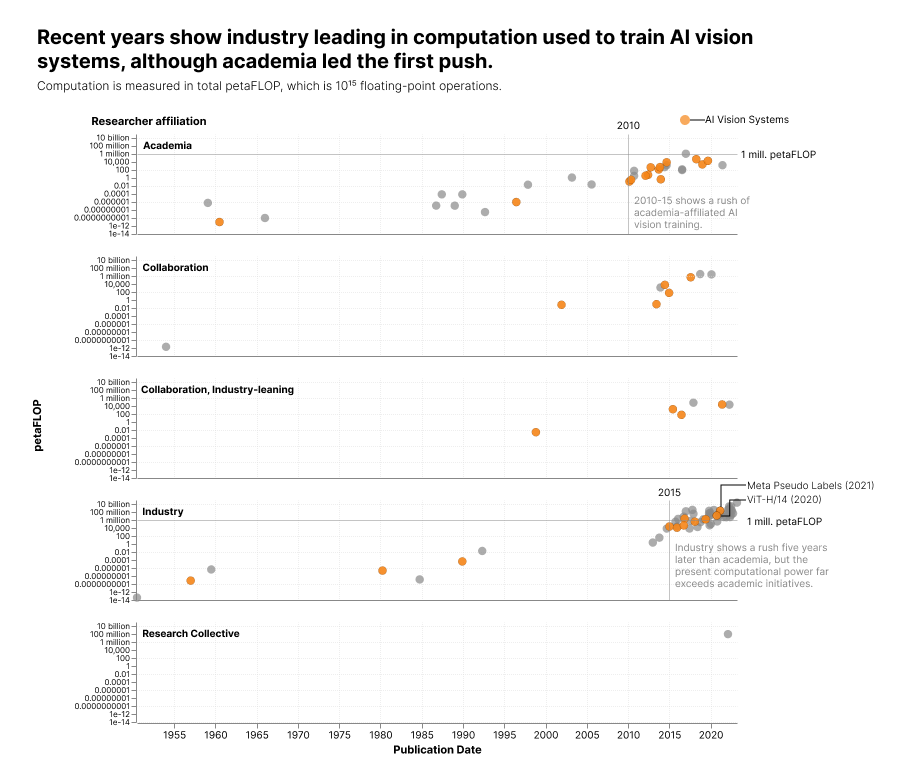
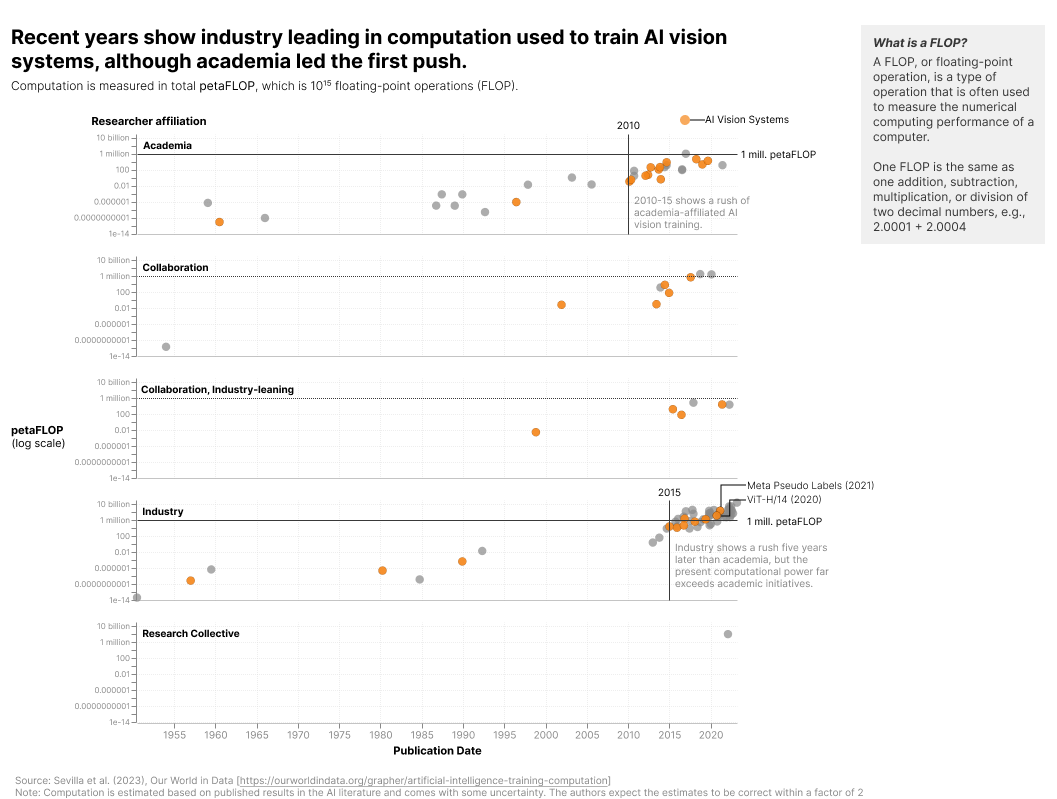
update chart outputs and write up rest of readme file

diff --git a/readme.md b/readme.md
@@ -1,7 +1,35 @@
 # Visualization Redesign 
 
-1. Create your base plot in your tool of choice (I like to use vega-altair)
+BEFORE creating your plot, determine: 
+    - **What message** is important to me to communicate, to **whom**, and **why**? 
+    - What data do I want to show? Can I show it in one chart, or do I need to facet it out to help manage the visual complexity of the story that I want to tell?
+
+1. Create your base plot in your tool of choice (I like to use vega-altair, but anything that will allow you to eventally save out a svg file works)
+    ![Show the data](./redesign-figma/1-show-the-data.png)
+    ![Break up information, e.g., facet](./redesign-figma/2-break-up-info.png)
 2. Export your plot as svg
 3. Create an empty Figma file 
-4. Drag your svg file into your Figma file window
-5. 
+4. Draw out a frame (hotkey: F) in the size of the Figure (e.g., half-width A4)
+5. Drag your svg file into your Figma file window into the frame you just created, and adjust scale as needed
+6. Based on message you want to communicate, if your data allow this, AND color is not part of the data encoding already, consider designing with grey. 
+   - For instance, select all data points other than a given category of interest.
+        - To directly select graphic of interest, hotkey: _cmd click_ on Mac, _ctrl shift 4_ on Windows; hold down _shift_ to select multiple objects, then group them to easily select later (hotkey: _cmd g_ on Mac, _ctrl g_ on Windows)
+   - Then choose a grey value to assign to this group, and voila! You are managing to still show all of your data, but push it into the background so that it is no longer competing with your main story. 
+   - Then, select your main category/data item, and choose a high-contrast color that will help make your data stand out. In my example, I have chosen orange.
+   ![Design with grey](./redesign-figma/3-design-with-grey.png)
+7. Declutter your visualization to make it easier to read, e.g.,  
+   - Reduce/remove gridlines
+   - Remove unnecessary legends 
+   - Don't make your viewer tilt their head to read your chart axis labels - no diagonal text, avoid vertical
+   ![Design with grey](./redesign-figma/4-declutter.png)
+8. Last, but not least: think about TEXT as just as important as the visuals in your science graphic! You want to tell your reader what they should learn from your figure, don't make them sit and try to puzzle it out themselves. This entails:
+    - Move legends (if you still have after decluttering) closer to the actual data to improve readability
+    - Write the title of your chart like a newspaper headline that captures the key takeaways of the chart and uses concise, active language
+    - Add explainers that help clarify features in your visualization 
+      - Captions/chart subtitle
+      - Callout box - in my example, I have added a caption box that explains to my audience what a FLOP is
+      - Add references to your data source
+      - Add annotations (labels) on top of your chart to call out important features (for some types of data, this may be considered image manipulation and not be allowed, so if you ever are unsure, discuss with colleagues)
+9. Export your graphic out from Figma:
+   - Select your Figma frame
+   - At the bottom of the right-hand panel, there is an Export menu. For maximum resolution, export your graphic as svg or pdf, if possible. If it must be a raster image file, use png. 
